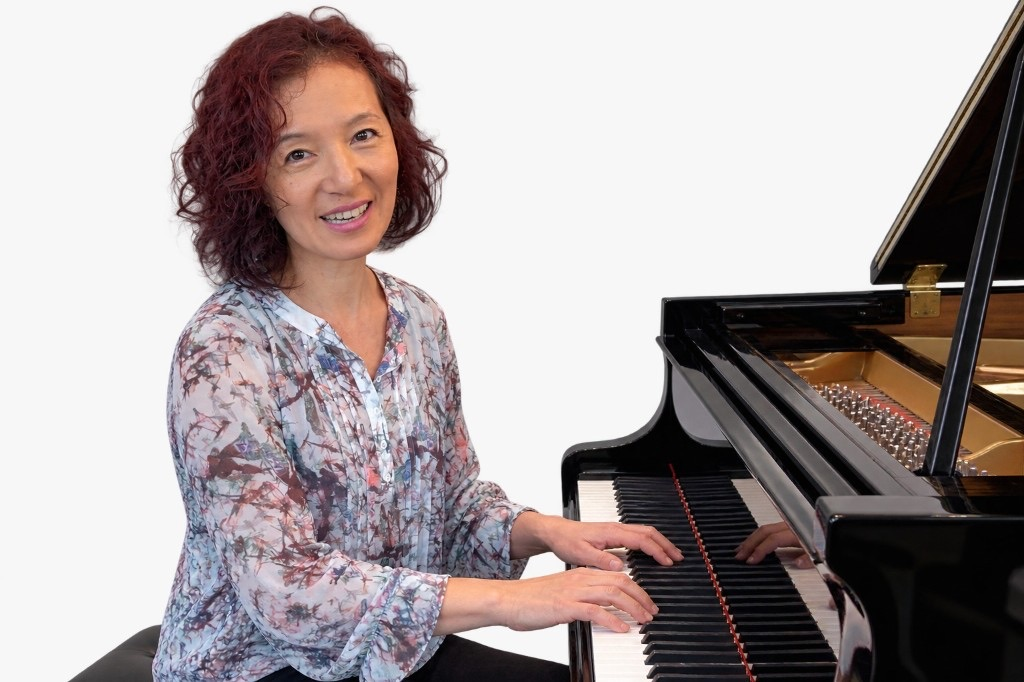
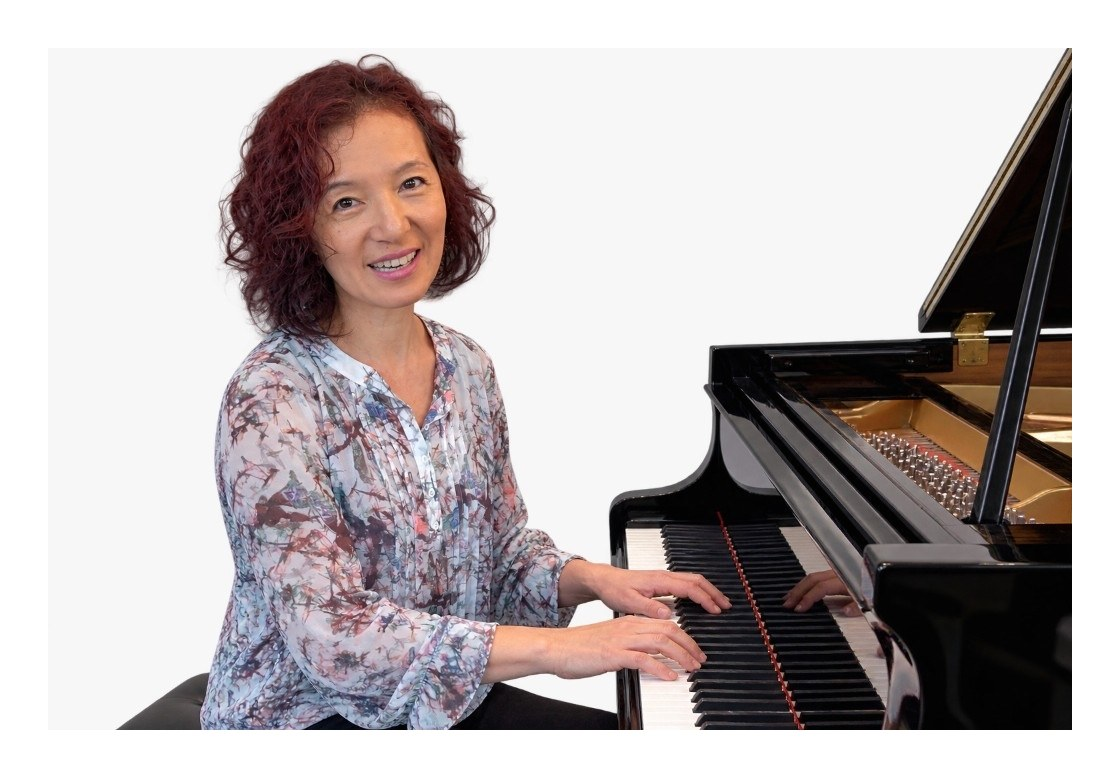
Fill the hero panel with the photo while keeping her body off the edges.

diff --git a/index.html b/index.html
@@ -112,34 +112,30 @@
 
       .hero {
         display: grid;
-        grid-template-columns: minmax(320px, 54vw) 1fr;
+        grid-template-columns: minmax(360px, 62vw) 1fr;
         min-height: 100vh;
       }
 
       .hero-photo {
         position: relative;
         overflow: hidden;
-        background: #0a1018;
+        background: #fff;
       }
 
       .hero-photo img {
         position: absolute;
-        top: 50%;
-        left: 50%;
-        width: auto;
-        height: auto;
-        max-width: 86%;
-        max-height: 78%;
+        inset: 0;
+        width: 100%;
+        height: 100%;
         object-fit: contain;
         object-position: center;
-        transform: translate(-50%, -50%);
       }
 
       .hero-photo::after {
         content: "";
         position: absolute;
         inset: 0;
-        background: linear-gradient(90deg, rgba(11, 23, 40, 0.08), var(--navy) 94%);
+        background: linear-gradient(90deg, transparent 62%, var(--navy) 100%);
       }
 
       .hero-copy {
@@ -458,13 +454,13 @@
           top: 0;
           right: 0;
           left: 0;
-          height: 64%;
+          height: 46%;
+          background: #fff;
         }
 
         .hero-photo img {
-          top: 38%;
-          max-width: 92%;
-          max-height: 70%;
+          object-fit: contain;
+          object-position: center;
         }
 
         .hero-photo::after {
@@ -705,7 +701,7 @@
         return `
           <div class="screen hero">
             <div class="hero-photo">
-              <img src="assets/hero-piano.jpg?v=5" alt="Pianist at a grand piano" />
+              <img src="assets/hero-piano.jpg?v=9" alt="Pianist at a grand piano" />
             </div>
             <div class="hero-copy">
               <p class="ribbon">5-day Timefeel Challenge for piano players</p>
